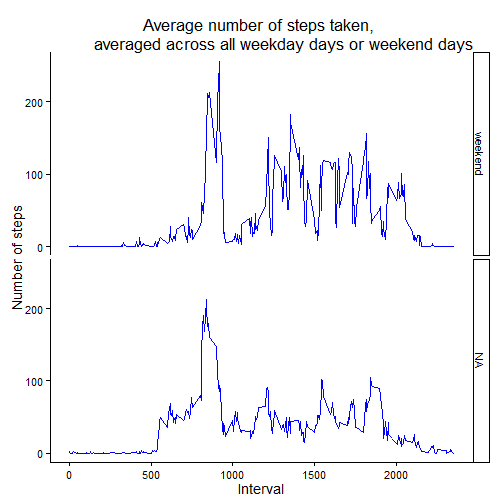
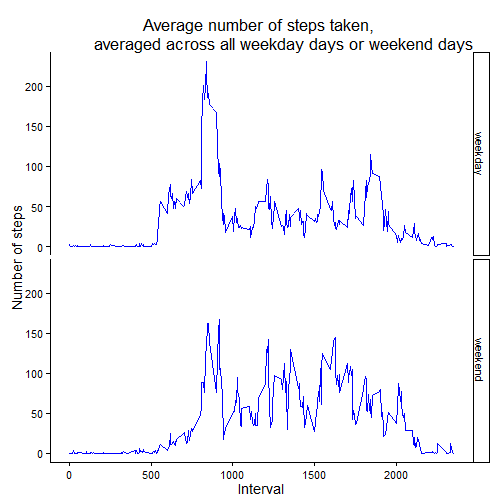
utf-8 encoding

diff --git a/PA1_template.html b/PA1_template.html
@@ -3,7 +3,7 @@
 <head>
 <meta http-equiv="Content-Type" content="text/html; charset=utf-8"/>
 
-<title>Loading and preprocessing the data</title>
+<title>Please note that the document uses UTF-8 encoding.</title>
 
 <script type="text/javascript">
 window.onload = function() {
@@ -201,6 +201,8 @@ hr {
 </head>
 
 <body>
+<h2>Please note that the document uses UTF-8 encoding.</h2>
+
 <h2>Loading and preprocessing the data</h2>
 
 <pre><code class="r">#load necessary libraries:
@@ -230,10 +232,11 @@ a&lt;-read.csv(&quot;activity.csv&quot;)
 <li>Make a histogram of the total number of steps taken each day</li>
 </ol>
 
-<pre><code class="r">ggplot(a_agg, aes(steps)) + geom_histogram()
+<pre><code class="r">ggplot(a_agg, aes(steps)) + geom_histogram() +
+    labs(title=&quot;Sum of steps taken per day&quot;, x=&quot;Steps&quot;, y=&quot;Count&quot;)
 </code></pre>
 
[2 lines of base64/hex data omitted]
 
 <ol>
 <li>Calculate and report the mean and median of the total number of steps taken per day</li>
@@ -246,7 +249,7 @@ print(xtable(a_m), type=&quot;html&quot;)
 
 <!-- html table generated in R 3.2.1 by xtable 1.7-4 package -->
 
-<!-- Tue Oct 13 19:42:48 2015 -->
+<!-- Tue Oct 13 20:48:27 2015 -->
 
 <table border=1>
 <tr> <th>  </th> <th> Mean </th> <th> Median </th>  </tr>
@@ -352,7 +355,7 @@ print(xtable(a_m), type=&quot;html&quot;)
 
 <!-- html table generated in R 3.2.1 by xtable 1.7-4 package -->
 
-<!-- Tue Oct 13 19:42:49 2015 -->
+<!-- Tue Oct 13 20:48:28 2015 -->
 
 <table border=1>
 <tr> <th>  </th> <th> Mean </th> <th> Median </th>  </tr>
@@ -404,7 +407,7 @@ m&lt;- group_by(f_day, weekday, interval) %&gt;%
     summarize(meanWeek = mean(steps))
 
 #time series plot:
-ggplot(m, aes(x=interval, y=meanWeek, group=weekday)) +
+ggplot(m, aes(x=interval, y=meanWeek, group=factor(weekday))) +
     geom_line(color=&quot;blue&quot;) + facet_grid(weekday~.) +
     labs(title=&quot;Average number of steps taken, 
          averaged across all weekday days or weekend days&quot;, 

diff --git a/PA1_template.md b/PA1_template.md
@@ -5,6 +5,8 @@ output:
     keep_md: true
 ---
 
+## Please note that the document uses UTF-8 encoding.
+
 
 ## Loading and preprocessing the data
 
@@ -36,7 +38,8 @@ a_agg<-aggregate(steps ~ date, data=a, sum)
 2. Make a histogram of the total number of steps taken each day
 
 ```r
-ggplot(a_agg, aes(steps)) + geom_histogram()
+ggplot(a_agg, aes(steps)) + geom_histogram() +
+    labs(title="Sum of steps taken per day", x="Steps", y="Count")
 ```
 
 ![plot of chunk histogram1](figure/histogram1-1.png) 
@@ -50,7 +53,7 @@ print(xtable(a_m), type="html")
 ```
 
 <!-- html table generated in R 3.2.1 by xtable 1.7-4 package -->
-<!-- Tue Oct 13 19:42:48 2015 -->
+<!-- Tue Oct 13 20:48:27 2015 -->
 <table border=1>
 <tr> <th>  </th> <th> Mean </th> <th> Median </th>  </tr>
   <tr> <td align="right"> 1 </td> <td align="right"> 10766.19 </td> <td align="right"> 10765.00 </td> </tr>
@@ -154,7 +157,7 @@ print(xtable(a_m), type="html")
 ```
 
 <!-- html table generated in R 3.2.1 by xtable 1.7-4 package -->
-<!-- Tue Oct 13 19:42:49 2015 -->
+<!-- Tue Oct 13 20:48:28 2015 -->
 <table border=1>
 <tr> <th>  </th> <th> Mean </th> <th> Median </th>  </tr>
   <tr> <td align="right"> with_NAs </td> <td align="right"> 10766.19 </td> <td align="right"> 10765.00 </td> </tr>
@@ -207,7 +210,7 @@ m<- group_by(f_day, weekday, interval) %>%
     summarize(meanWeek = mean(steps))
 
 #time series plot:
-ggplot(m, aes(x=interval, y=meanWeek, group=weekday)) +
+ggplot(m, aes(x=interval, y=meanWeek, group=factor(weekday))) +
     geom_line(color="blue") + facet_grid(weekday~.) +
     labs(title="Average number of steps taken, 
          averaged across all weekday days or weekend days", 
